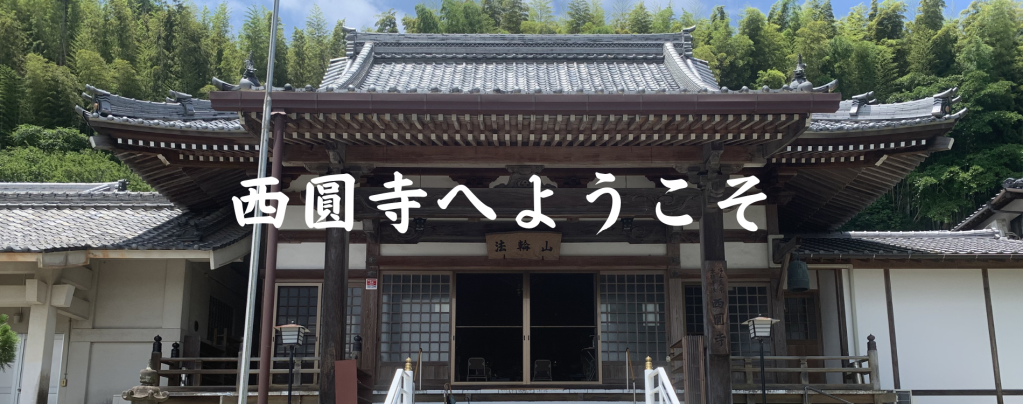
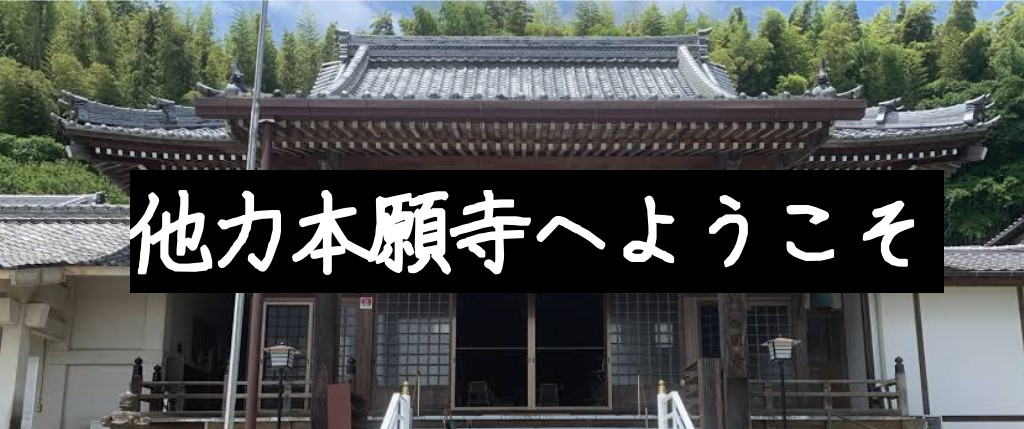
[Update]admin change

diff --git a/app/javascript/stylesheets/home.scss b/app/javascript/stylesheets/home.scss
@@ -1,48 +1,3 @@
-.insta-btn{
-  color: #FFF;
-  border-radius: 7px;
-  position: relative;
-  display: inline-block;
-  height: 50px;
-  width: 260px;
-  text-align: center;
-  font-size: 25px;
-  line-height: 50px;
-  background: -webkit-linear-gradient(135deg, #427eff 0%, #f13f79 70%) no-repeat;
-  background: linear-gradient(135deg, #427eff 0%, #f13f79 70%) no-repeat;
-  overflow: hidden;
-  text-decoration:none;
-}
-
-.insta-btn:before{
-  content: '';
-  position: absolute;
-  top: 0;
-  left: 0;
-  width: 100%;
-  height: 100%;
-  background: -webkit-linear-gradient(15deg, #ffdb2c, rgb(249, 118, 76) 25%, rgba(255, 77, 64, 0) 50%) no-repeat;
-  background: linear-gradient(15deg, #ffdb2c, rgb(249, 118, 76) 25%, rgba(255, 77, 64, 0) 50%) no-repeat;
-}
-
-.insta-btn .fa-instagram{
-  font-size: 35px;
-  position: relative;
-  top: 4px;
-}
-
-.insta-btn span {
-  display:inline-block;
-  position: relative;
-  transition: .5s
-}
-
-.insta-btn:hover span{
-  -webkit-transform: rotateX(360deg);
-  -ms-transform: rotateX(360deg);
-  transform: rotateX(360deg);
-}
-
 #map {
   width: 50vw;
   height: 40vh;

diff --git a/db/seeds.rb b/db/seeds.rb
@@ -8,12 +8,12 @@
 
 #Admin.find_or_create_by(id: 1) do |admin|
  admin = Admin.find(1)
- admin.name = "西圓寺"
+ admin.name = "他力本願寺"
  admin.email = "example@example.com"
  admin.password = "example"
- admin.phone_number = "093-282-6765"
- admin.postal_code = "8114205"
- admin.address = "福岡県遠賀郡岡垣町三吉869"
+ admin.phone_number = "012-345-6789"
+ admin.postal_code = "1234567"
+ admin.address = "日本県日本市日本区日本1-2-3"
  if admin.save
  end
 #end

diff --git a/app/controllers/admins/sessions_controller.rb b/app/controllers/admins/sessions_controller.rb
@@ -1,6 +1,14 @@
 # frozen_string_literal: true
 
 class Admins::SessionsController < Devise::SessionsController
+  
+  def after_sign_in_path_for(resource)
+    admins_path
+  end
+
+  def after_sign_out_path_for(resource)
+    new_admin_session_path
+  end
   # before_action :configure_sign_in_params, only: [:create]
 
   # GET /resource/sign_in
